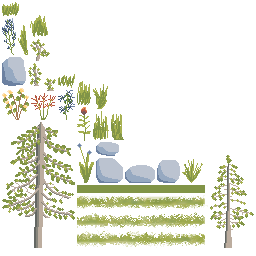
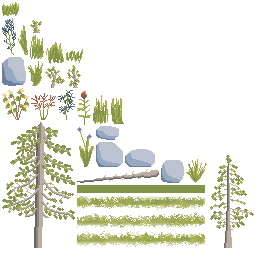
March 2nd

Changed region(s): [[0.0938, 0.0625, 0.8125, 0.7188]]

diff --git a/core/src/main/java/io/github/MilanJ4480/Bear_Game/pre_alpha/Item.java b/core/src/main/java/io/github/MilanJ4480/Bear_Game/pre_alpha/Item.java
@@ -1,0 +1,117 @@
+package io.github.MilanJ4480.Bear_Game.pre_alpha;
+
+import com.badlogic.gdx.Gdx;
+import com.badlogic.gdx.Input;
+import com.badlogic.gdx.graphics.Texture;
+import com.badlogic.gdx.graphics.g2d.Batch;
+import com.badlogic.gdx.graphics.g2d.Sprite;
+import com.badlogic.gdx.graphics.g2d.TextureRegion;
+import com.badlogic.gdx.math.Intersector;
+import com.badlogic.gdx.math.MathUtils;
+import com.badlogic.gdx.math.Polygon;
+import com.badlogic.gdx.math.Vector3;
+
+public class Item {
+    private Sprite item;
+    private Polygon hitbox;
+    private Intersector.MinimumTranslationVector mtv;
+
+
+    private float x;
+    private float y;
+    private float w;
+    private float h;
+
+    private float g;
+    private float v;
+
+    private float floor;
+
+    private  boolean held;
+    private  boolean face;
+
+    public Item(TextureRegion texture, float x, float y) {
+        this.item = new Sprite(texture);
+
+        float[] vertices = new float[] {
+            0, 0,
+            item.getWidth(), 0,
+            item.getWidth(), item.getHeight(),
+            0, item.getHeight()
+        };
+        this.hitbox = new Polygon(vertices);
+
+        this.x = x;
+        this.y = y;
+        this.w = item.getWidth();
+        this.h = item.getHeight();
+
+        this.g = -1000;
+        this.v=0;
+        face=true;
+    }
+
+    public float getX() { return x; }
+    public float getW() { return w; }
+    public float getY() { return y; }
+
+    private void gravity(float delta, float floor){
+        if (y<=floor){
+            y = floor;
+        }
+        else{
+            v += g*delta;
+            y += v*delta;
+            if (y<floor) y = floor;
+        }
+    }
+
+    private void rotate(float delta, Vector3 mouse){
+        float a = item.getRotation() % 360;
+        float b = MathUtils.radiansToDegrees * MathUtils.atan2((mouse.y-y) , (mouse.x-x));
+
+        float diff = a-b;
+
+        if (diff>180) diff -= 360;
+        if (diff<-180) diff += 360;
+
+        if(Math.abs(a-b) > 5) {
+            item.rotate(delta*Math.signum(diff));
+        }
+    }
+
+    public void update(float delta, float f, float playerX, Polygon swipeBox, Vector3 mouse) {
+        if((Intersector.overlapConvexPolygons(hitbox, swipeBox) && Gdx.input.isKeyJustPressed(Input.Keys.E)) || held){
+            if(held && Gdx.input.isKeyJustPressed(Input.Keys.E)) held=false;
+            else held=true;
+
+            if(playerX>swipeBox.getX()) {
+                x = swipeBox.getX()-swipeBox.getBoundingRectangle().getWidth();
+                face=true;
+                item.setOrigin(w, h);
+                rotate(delta*240, mouse);
+            }
+            else {
+                x = swipeBox.getX()+swipeBox.getBoundingRectangle().getWidth();
+                face=false;
+                item.setOrigin(0, 0);
+                rotate(delta*-240, mouse);
+            }
+            y = swipeBox.getY()+swipeBox.getBoundingRectangle().getHeight();
+        }
+        else {
+            gravity(delta, f);
+            item.setRotation(0);
+        }
+
+        if (face && item.isFlipX()) item.flip(true, false);
+        else if  (!face && !item.isFlipX()) item.flip(true, false);
+
+        item.setPosition(x, y);
+        hitbox.setPosition(x, y);
+    }
+
+    public void render(Batch batch) {
+        item.draw(batch);
+    }
+}

diff --git a/core/src/main/java/io/github/MilanJ4480/Bear_Game/pre_alpha/ChunkManager.java b/core/src/main/java/io/github/MilanJ4480/Bear_Game/pre_alpha/ChunkManager.java
@@ -7,6 +7,7 @@ import com.badlogic.gdx.graphics.g2d.TextureAtlas;
 import com.badlogic.gdx.graphics.g2d.TextureRegion;
 import com.badlogic.gdx.math.MathUtils;
 import com.badlogic.gdx.math.Polygon;
+import com.badlogic.gdx.math.Vector3;
 import com.badlogic.gdx.utils.Array;
 
 public class ChunkManager {
@@ -23,11 +24,12 @@ public class ChunkManager {
     Array<Chunk> chunks;
     short biome;
 
-    EntityManager entityManager;
     Array<Enemy> enemies;
 
     Texture deerTexture;
     Texture leader;
+
+    Item item;
 
     public ChunkManager(){
         atlas = new TextureAtlas("atlas/atlas.atlas");
@@ -40,13 +42,14 @@ public class ChunkManager {
         }
         layers[11] = new TextureRegion(alpineAtlas.findRegion("alpine_layer"));
 
-        alpine = new TextureRegion[6][];
+        alpine = new TextureRegion[7][];
         alpine[0] = new TextureRegion[2]; //alpine_fir
         alpine[1] = new TextureRegion[3]; //alpine_fir_shrub
         alpine[2] = new TextureRegion[6]; //alpine_flower
         alpine[3] = new TextureRegion[9]; //alpine_grass
         alpine[4] = new TextureRegion[5]; //alpine_rock
         alpine[5] = new TextureRegion[3]; //alpine_tile
+        alpine[6] = new TextureRegion[1];
 
         for (int i=0; i<alpine[0].length; i++){
             alpine[0][i] = new TextureRegion(alpineAtlas.findRegion("alpine_fir" + (i+1)));
@@ -70,6 +73,10 @@ public class ChunkManager {
 
         for (int i=0; i<alpine[5].length; i++){
             alpine[5][i] = new TextureRegion(alpineAtlas.findRegion("alpine_tile" + (i+1)));
+        }
+
+        for (int i=0; i<alpine[6].length; i++){
+            alpine[6][i] = new TextureRegion(alpineAtlas.findRegion("alpine_stick" + (i+1)));
         }
 
 
@@ -97,11 +104,13 @@ public class ChunkManager {
 
         enemies = new Array<>();
 
-        float[] deerX = new  float[6];
+        /*float[] deerX = new  float[6];
         enemies.add(new Deer(leader, 20, 20, 0.25f, 0.25f, 5, deerX, 0));
         for(int i=1; i<5; i++) {
             enemies.add(new Deer(deerTexture, 20, 20, 0.1f, 0.1f, 5, deerX, i));
-        }
+        }*/
+
+        item = new Item(alpine[6][0], 50, 0);
     }
 
     public float getFloor(float x, float w, float y){
@@ -200,7 +209,7 @@ public class ChunkManager {
         }
     }
 
-    public void updateEnemies(float delta, float floor, boolean attack, float playerX, Polygon swipe, Camera camera){
+    public void updateEnemies(float delta, float floor, boolean attack, float playerX, Polygon swipe, Camera camera, Vector3 mouse){
         for(int i=0; i<enemies.size; i++){
             enemies.get(i).update(delta, floor, attack, playerX, swipe, camera);
             if(enemies.get(i).getHealth()==-1){
@@ -208,12 +217,14 @@ public class ChunkManager {
                 i--;
             }
         }
+        item.update(delta, getFloor(item.getX(), item.getW(), item.getY()),playerX, swipe, mouse);
     }
 
     public void renderEnemies(Batch batch){
         for(Enemy enemy : enemies){
             enemy.render(batch);
         }
+        item.render(batch);
     }
 
     public void dispose(){

diff --git a/core/src/main/java/io/github/MilanJ4480/Bear_Game/pre_alpha/Player.java b/core/src/main/java/io/github/MilanJ4480/Bear_Game/pre_alpha/Player.java
@@ -32,6 +32,7 @@ public class Player{
     private float floor;
     private float bearS;
     private float jumpStrength;
+    float m;
 
 //    booleans
     private boolean bearFace;
@@ -77,6 +78,7 @@ public class Player{
         bearX = X;
         bearY = Y;
         g=-750;
+        m=500;
         jumpStrength= (float) sqrt(2 * (g*-1) * 75);
         jump = false;
         bearFace=false;
@@ -87,11 +89,14 @@ public class Player{
     public float getX(){ return polyBear.getX(); }
     public float getY(){ return polyBear.getY(); }
     public Polygon getPolygon() { return polyBear; }
-    public Polygon getSwipeBox(){return swipeBox;}
+    public Polygon getSwipeBox(){ return swipeBox;}
+
+//    public float mouthX() { return }
 
     public boolean getFace(){ return bearFace; }
     public boolean getAttack(){ return attack; }
 
+    public float getM() { return m; }
     public float getV() { return bearV; }
     public void setX(float X){bearX = X;}
     public void setY(float Y){bearY = Y;}
@@ -132,8 +137,8 @@ public class Player{
 
     public void update(float f, float delta) {
         floor = f;
-        if (Gdx.input.isKeyPressed(Input.Keys.CONTROL_LEFT) && Gdx.input.isKeyPressed(Input.Keys.E)) bearS=750;
-        else if (Gdx.input.isKeyPressed(Input.Keys.E)) bearS=175;
+        if (Gdx.input.isKeyPressed(Input.Keys.CONTROL_LEFT) && Gdx.input.isKeyPressed(Input.Keys.SHIFT_LEFT)) bearS=750;
+        else if (Gdx.input.isKeyPressed(Input.Keys.SHIFT_LEFT)) bearS=175;
         else bearS=75;
         if (Gdx.input.isButtonJustPressed(Input.Buttons.LEFT) && bearAnimation==bearWalk1){
             swapAnimation(bearSwipe, false);

diff --git a/core/src/main/java/io/github/MilanJ4480/Bear_Game/pre_alpha/Main.java b/core/src/main/java/io/github/MilanJ4480/Bear_Game/pre_alpha/Main.java
@@ -7,6 +7,7 @@ import com.badlogic.gdx.graphics.OrthographicCamera;
 import com.badlogic.gdx.graphics.Texture;
 import com.badlogic.gdx.graphics.g2d.*;
 import com.badlogic.gdx.graphics.glutils.ShapeRenderer;
+import com.badlogic.gdx.math.Vector3;
 import com.badlogic.gdx.utils.ScreenUtils;
 import com.badlogic.gdx.utils.viewport.FitViewport;
 import com.badlogic.gdx.utils.viewport.Viewport;
@@ -86,12 +87,14 @@ public class Main extends ApplicationAdapter {
         batch.setProjectionMatrix(camera.combined);
 
         float delta = Math.min(Gdx.graphics.getDeltaTime(), 1f/30f);
+        Vector3 mouse = new Vector3(Gdx.input.getX(), Gdx.input.getY(), 0);
+        viewport.unproject(mouse);
 
         player.update(chunkManager.getFloor(player.getX(), player.getWidth(), player.getY()), delta);
-        entity.update(delta, chunkManager.getFloor(entity.getX(), entity.getWidth(), entity.getY()), player, player.getFace());
+        entity.update(delta, chunkManager.getFloor(entity.getX(), entity.getWidth(), entity.getY()), player);
         chunkManager.update(player.getX());
         enemy.update(delta, chunkManager.getFloor(enemy.getX(), enemy.getWidth(), enemy.getY()), player.getAttack(), player.getCenter(), player.getSwipeBox(), camera);
-        chunkManager.updateEnemies(delta, chunkManager.getFloor(20, 20, 0), player.getAttack(),  player.getCenter(), player.getSwipeBox(), camera);
+        chunkManager.updateEnemies(delta, chunkManager.getFloor(20, 20, 0), player.getAttack(),  player.getCenter(), player.getSwipeBox(), camera, mouse);
 
         camera.position.set(player.getCenter(), player.getY()+64, 0);
         camera.update();

diff --git a/core/src/main/java/io/github/MilanJ4480/Bear_Game/pre_alpha/Entity.java b/core/src/main/java/io/github/MilanJ4480/Bear_Game/pre_alpha/Entity.java
@@ -78,7 +78,7 @@ public class Entity {
         x+=hv*delta;
     }
 
-    public void update(float delta, float f, Player player, boolean face) {
+    public void update(float delta, float f, Player player) {
         floor = f;
         if (Intersector.overlapConvexPolygons(player.getPolygon(), hitbox, mtv)) {
             if (player.getY() >= hitbox.getY()+h || mtv.normal.y>0.1) { //(player.getLeftX()<hitbox.getX()+w || player.getRightX()-5>hitbox.getX()))){